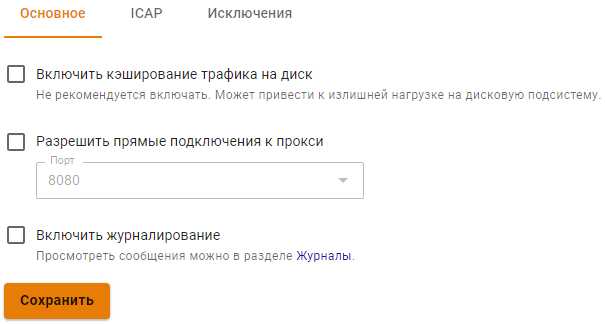
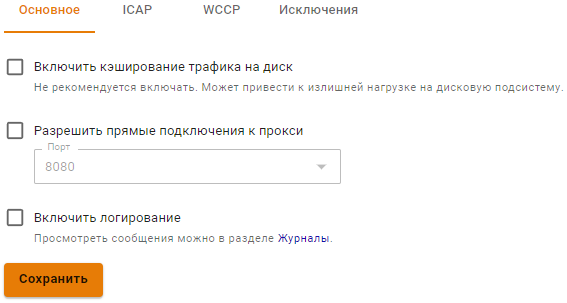
ICS-28492 УТМ. Добавить поддержку WCCP в прокси-сервер

diff --git a/settings/services/proxy/README.md b/settings/services/proxy/README.md
@@ -32,7 +32,7 @@ description: >-
 * **Разрешить прямые подключения к прокси**. Данный режим применяется в случае, когда Ideco UTM не является шлюзом по умолчанию для клиентов сети. \
   Порт, указанный на стороне UTM, следует указать на сетевых устройствах локальной сети, веб-трафик которых нужно пропускать через прокси.
   
-  ![](../../../.gitbook/assets/proxy-server4.jpg)
+  ![](../../../.gitbook/assets/proxy-server4.png)
 
 * **Включить журналирование**. Включает запись логов Контент-фильтра и Антивирусов веб-трафика.
 
@@ -48,7 +48,35 @@ description: >-
 * **Игнорировать ошибки** - если включена эта опция, то сервис будет считаться необязательным. При недоступности или неправильной работе сервиса он не будет задействован.
 * **Задать количество подключений к сервису вручную** - если значение не задано, максимальное количество подключений берется из ответа сервиса на запрос OPTIONS. Если максимальное количество подключений не указано и в ответе на запрос OPTIONS - тогда без ограничений.
 
-![](../../../.gitbook/assets/icap.png)
+![](../../../.gitbook/assets/proxy-server5.png)
+
+## WCCP
+
+Протокол WCCP используется на маршрутизаторах и кэширующих серверах для перенаправления трафика в сети. 
+
+Рассмотрим пример работы WCCP на втором уровне (L2) для топологии ниже:
+
+![](../../../.gitbook/assets/proxy-server6.png)
+
+Пользователь запрашивает доступ к веб-странице:
+* Запрос проходит через межсетевой экран, на котором настроен WCCP, и перенаправляется коммутатором на Ideco UTM;
+* Ideco UTM является сервер кэширования и обрабатывает запрос:
+  * Если запрос заблокирован, то информация о блокировке отправляется обратно пользователю.
+  * Если запрос не заблокирован, то Ideco UTM проверяет включено ли кэширование трафика на диск (опция включается на вкладке **Основное**): 
+    * Кэширование включено: Ideco UTM ищет копию запрашиваемой страницы в кэше:
+      * Страница есть -> отправляется пользователю; 
+      * Страницы нет -> выполняется действие, аналогичное последнему пункту.
+    * Кэширование выключено: Ideco UTM направляет запрос на внешний сервер и ответ возвращается обратно по тому же пути, по которому уходил на внешний сервер.
+
+Для активации WCCP переведите опцию **Включить перенаправление трафика c WCCP серверов на Ideco UTM** в положение **Включен**. Ideco UTM запустит процесс согласования параметров с WCCP сервером.
+
+Если на WCCP сервере задан пароль, то сохраните его в соответствующем поле.
+
+Укажите значение от 1 до 10000 в поле **Вес** для приоритизации Ideco UTM в выборе перенаправления трафика WCCP-сервером.
+
+Для добавления WCCP-сервера нажмите **Добавить** в левом верхнем углу и укажите IP-адрес сервера:
+
+![](../../../.gitbook/assets/proxy-server7.png)
 
 ## Исключения
 
@@ -59,4 +87,3 @@ description: >-
 {% content-ref url="exclusions.md" %}
 [exclusions.md](exclusions.md)
 {% endcontent-ref %}
-
